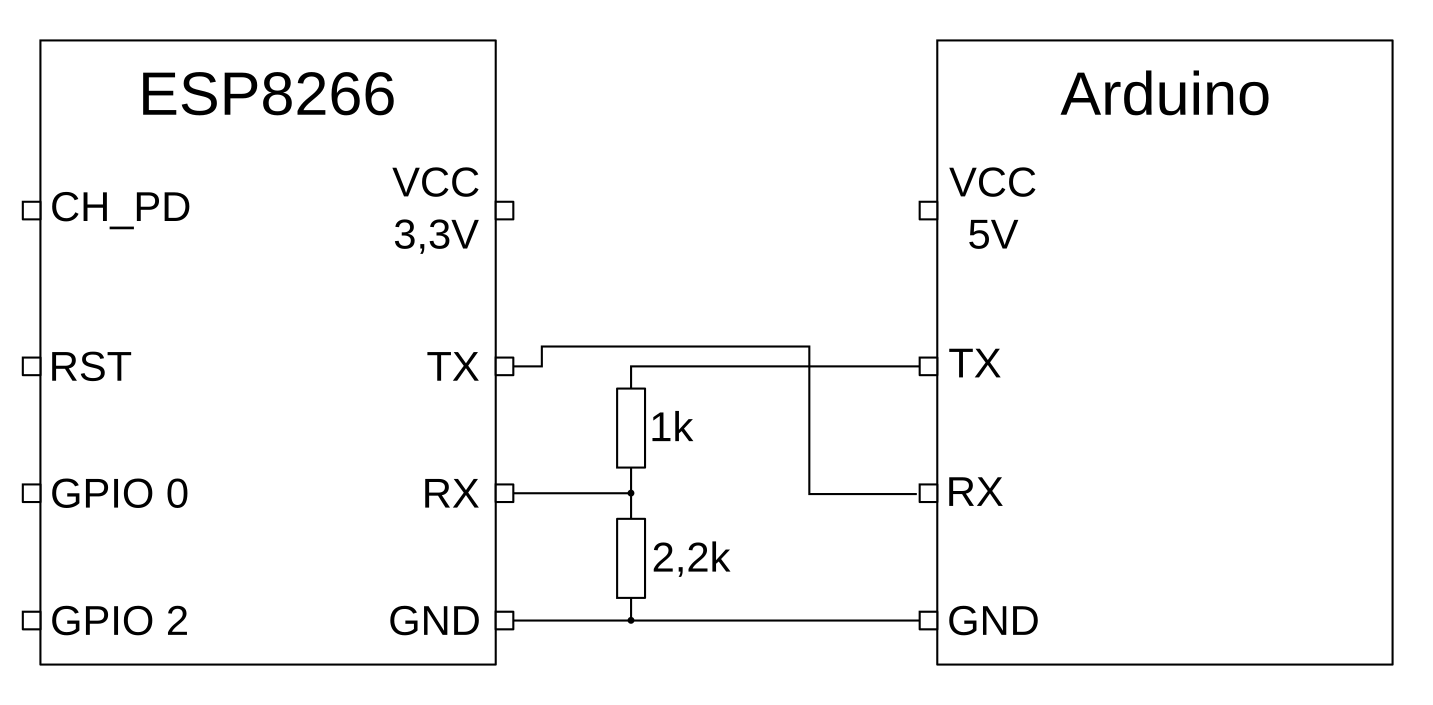
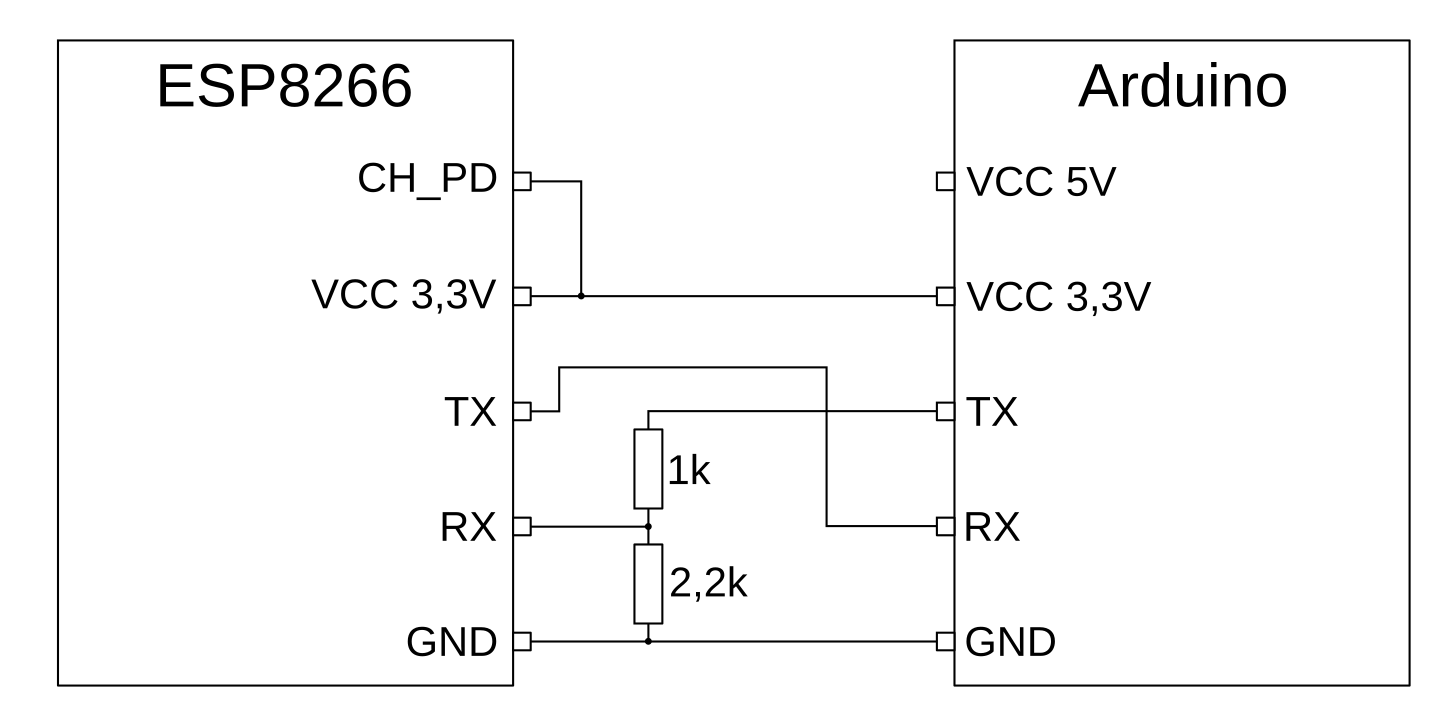
updated cabling picture

diff --git a/docs/ESP8266.md b/docs/ESP8266.md
@@ -45,10 +45,20 @@ Es gilt dabei noch eine weitere Besonderheit zu beachten: Der ESP8266 arbeitet m
 An seinem Eingang ist der Arduino relativ tolerant. Laut Datenblatt erkennt er Spannungspegel von mindestens 3V als `high`. Daher kann der Pin `TX` vom ESP8266 direkt mit dem Pin `RX` vom Arduino verbunden werden. 
 
 Beim Senden von Daten liefert der Arduino jedoch eine Spannung von bis zu 5V. Diese Spannung ist zu hoch für den ESP8266. 
+Eine einfache Möglichkeit zur Anpassung ist  ein Spannungsteiler wie im Bild dargestellt. 
 
-<!-- ##### dieser Abschnitt beantwortet die Aufgabe Anpassung Spannungspegel -->
-<!-- Eine einfache Möglichkeit zur Anpassung ist  ein Spannungsteiler wie im Bild dargestellt. -->
-
-<!-- ![Spannungsteiler](UART_cabling_resistors.png) -->
+![Spannungsteiler](UART_cabling_resistors.png)
  
-<!-- Durch diese Schaltung wird die Spannung, die am Pin `RX` des ESP8266 ankommt, auf ein vertretbares Level herabgesetzt. -->
+Durch diese Schaltung wird die Spannung, die am Pin `RX` des ESP8266 ankommt, auf ein vertretbares Level herabgesetzt.
+
+
+### Widerstands-Codes
+
+Ihr braucht zwei unterschiedliche Widerstände. Diese können durch farbige Ringe unterschieden werden.
+
+| Farbcode                                     | Wert      | im Bild |
+| -------------------------------------------- | --------- | ------- |
+| rot - rot - schwarz - braun - braun          | 2,2 kOhm  | oben    |
+| braun - schwarz - schwarz - braun - braun    | 1 kOhm    | unten   |
+
+![Foto Widerstände](Widerstaende.jpg)
